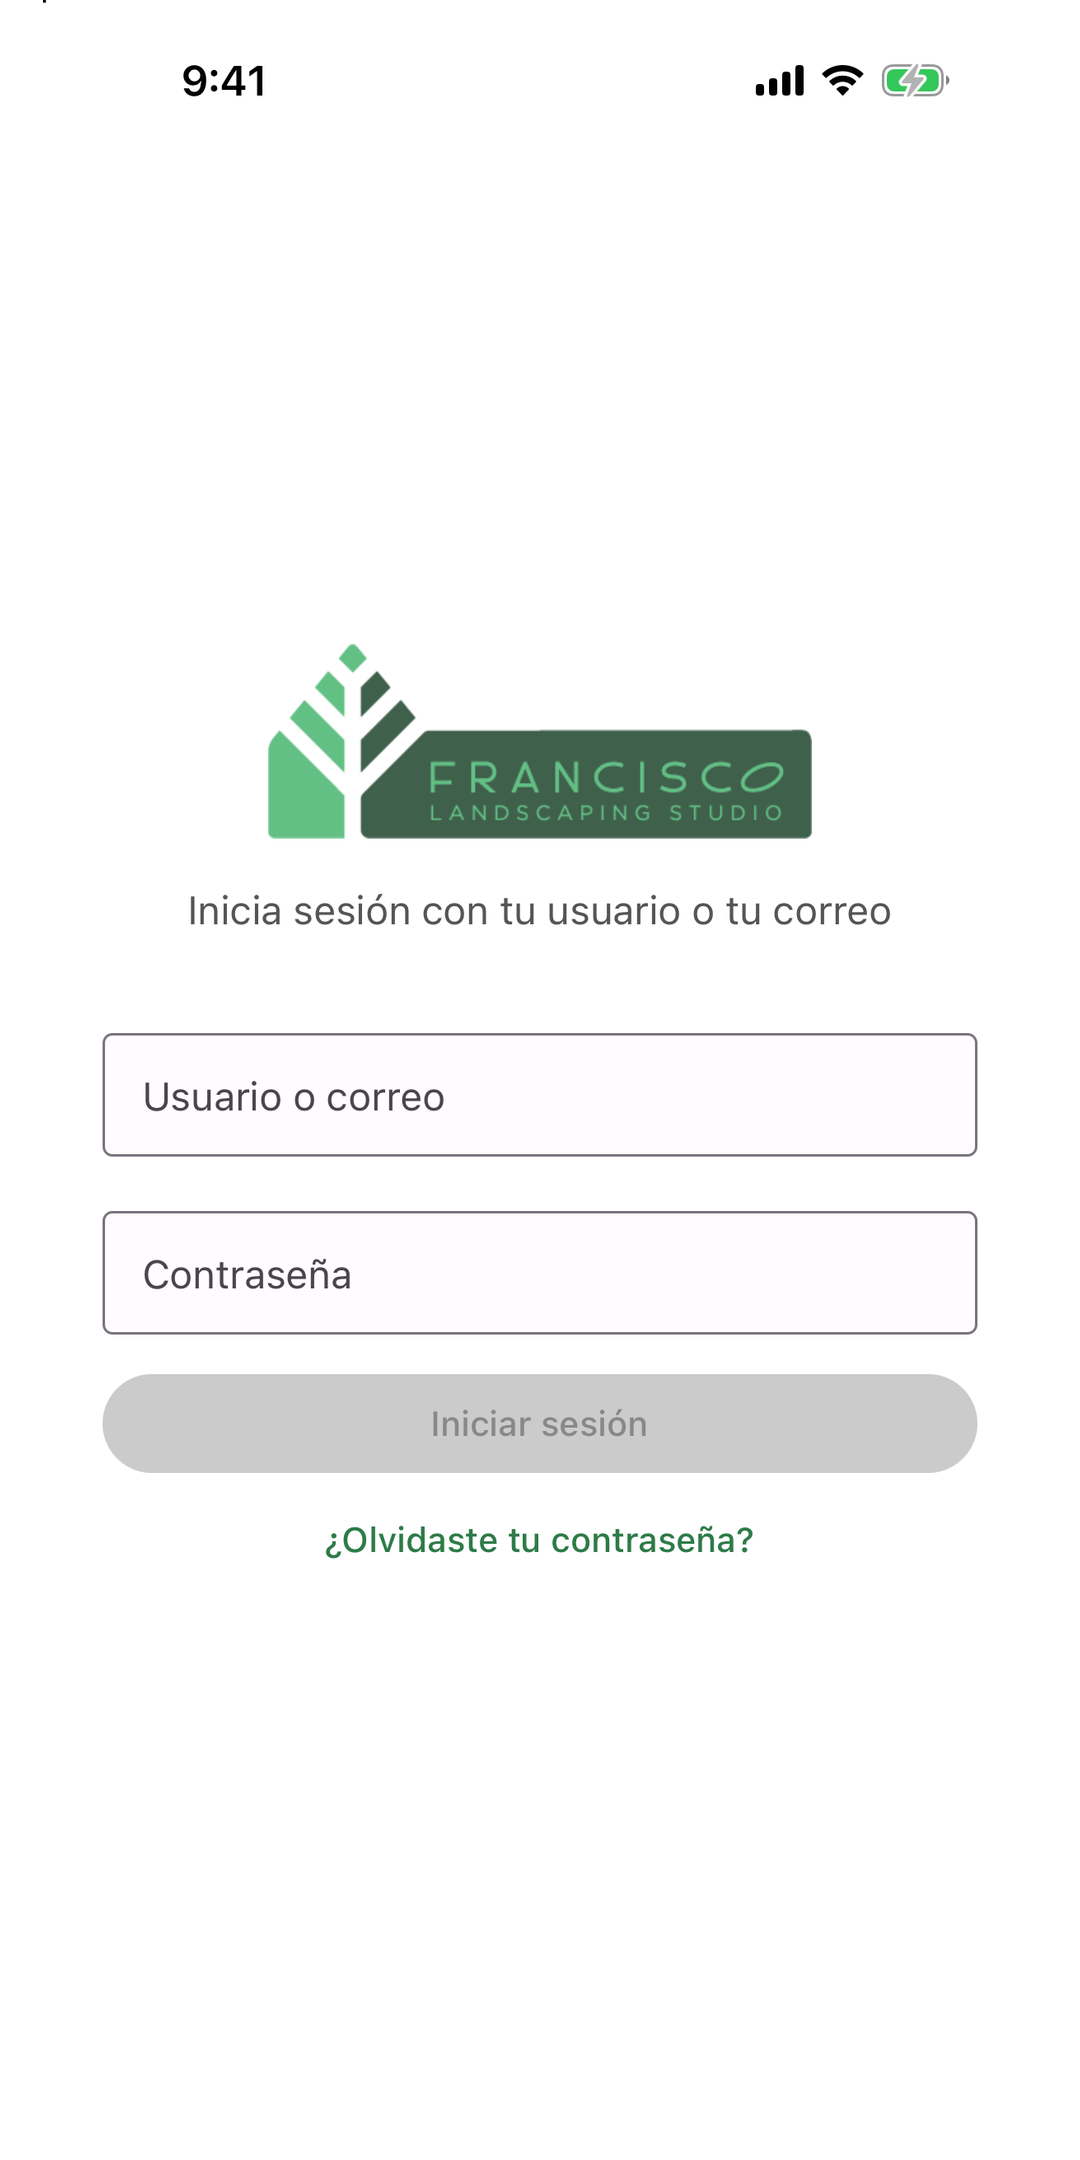
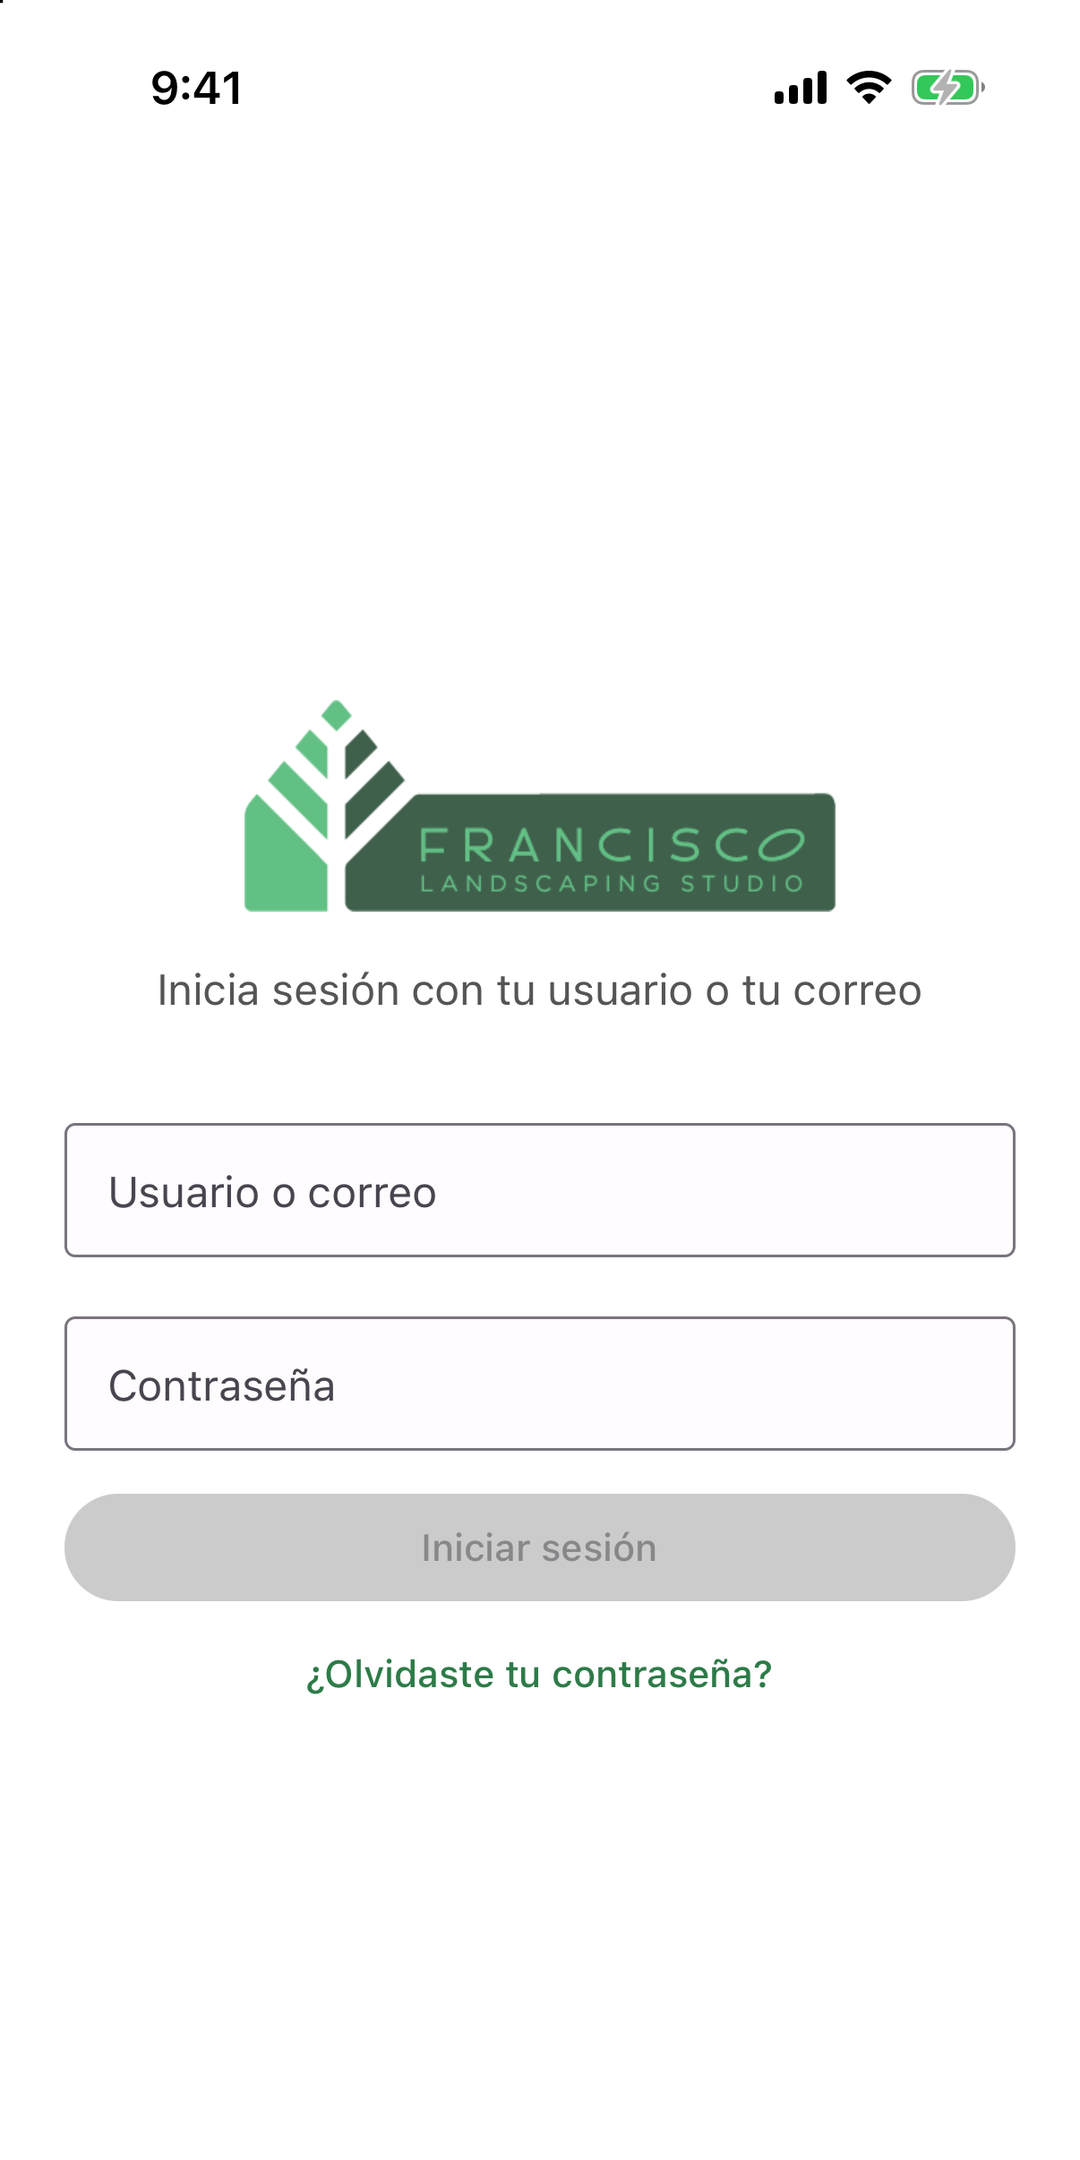
Capturas de Android sin margen blanco: recortadas a 2:1, que Play no las tome por gráficos

diff --git a/apps/app-admin/tienda/textos.md b/apps/app-admin/tienda/textos.md
@@ -120,7 +120,7 @@ Datos recopilados, **vinculados a la identidad**, **sin rastreo**, uso
   1284×2778 con *File dimensions are invalid*. Las de `capturas/ios-6.5/`
   quedan por si alguna vez pide ese tamaño.
 - **Google Play**: `capturas/android/` (1080×2160; el iPhone es más alto que
-  2:1, que es el máximo de Play, así que van con un margen blanco a los lados).
+  2:1, que es el máximo de Play, así que van recortadas por abajo a 2:1 y escaladas; con margen blanco a los lados, Play las tomó por «ilustraciones o gráficos de marketing»).
 
 Solo dos, **sin datos**, a propósito: el login y *Crea tu contraseña* (el
 enlace de acceso, abierto en el simulador con un enlace de prueba de la base de
